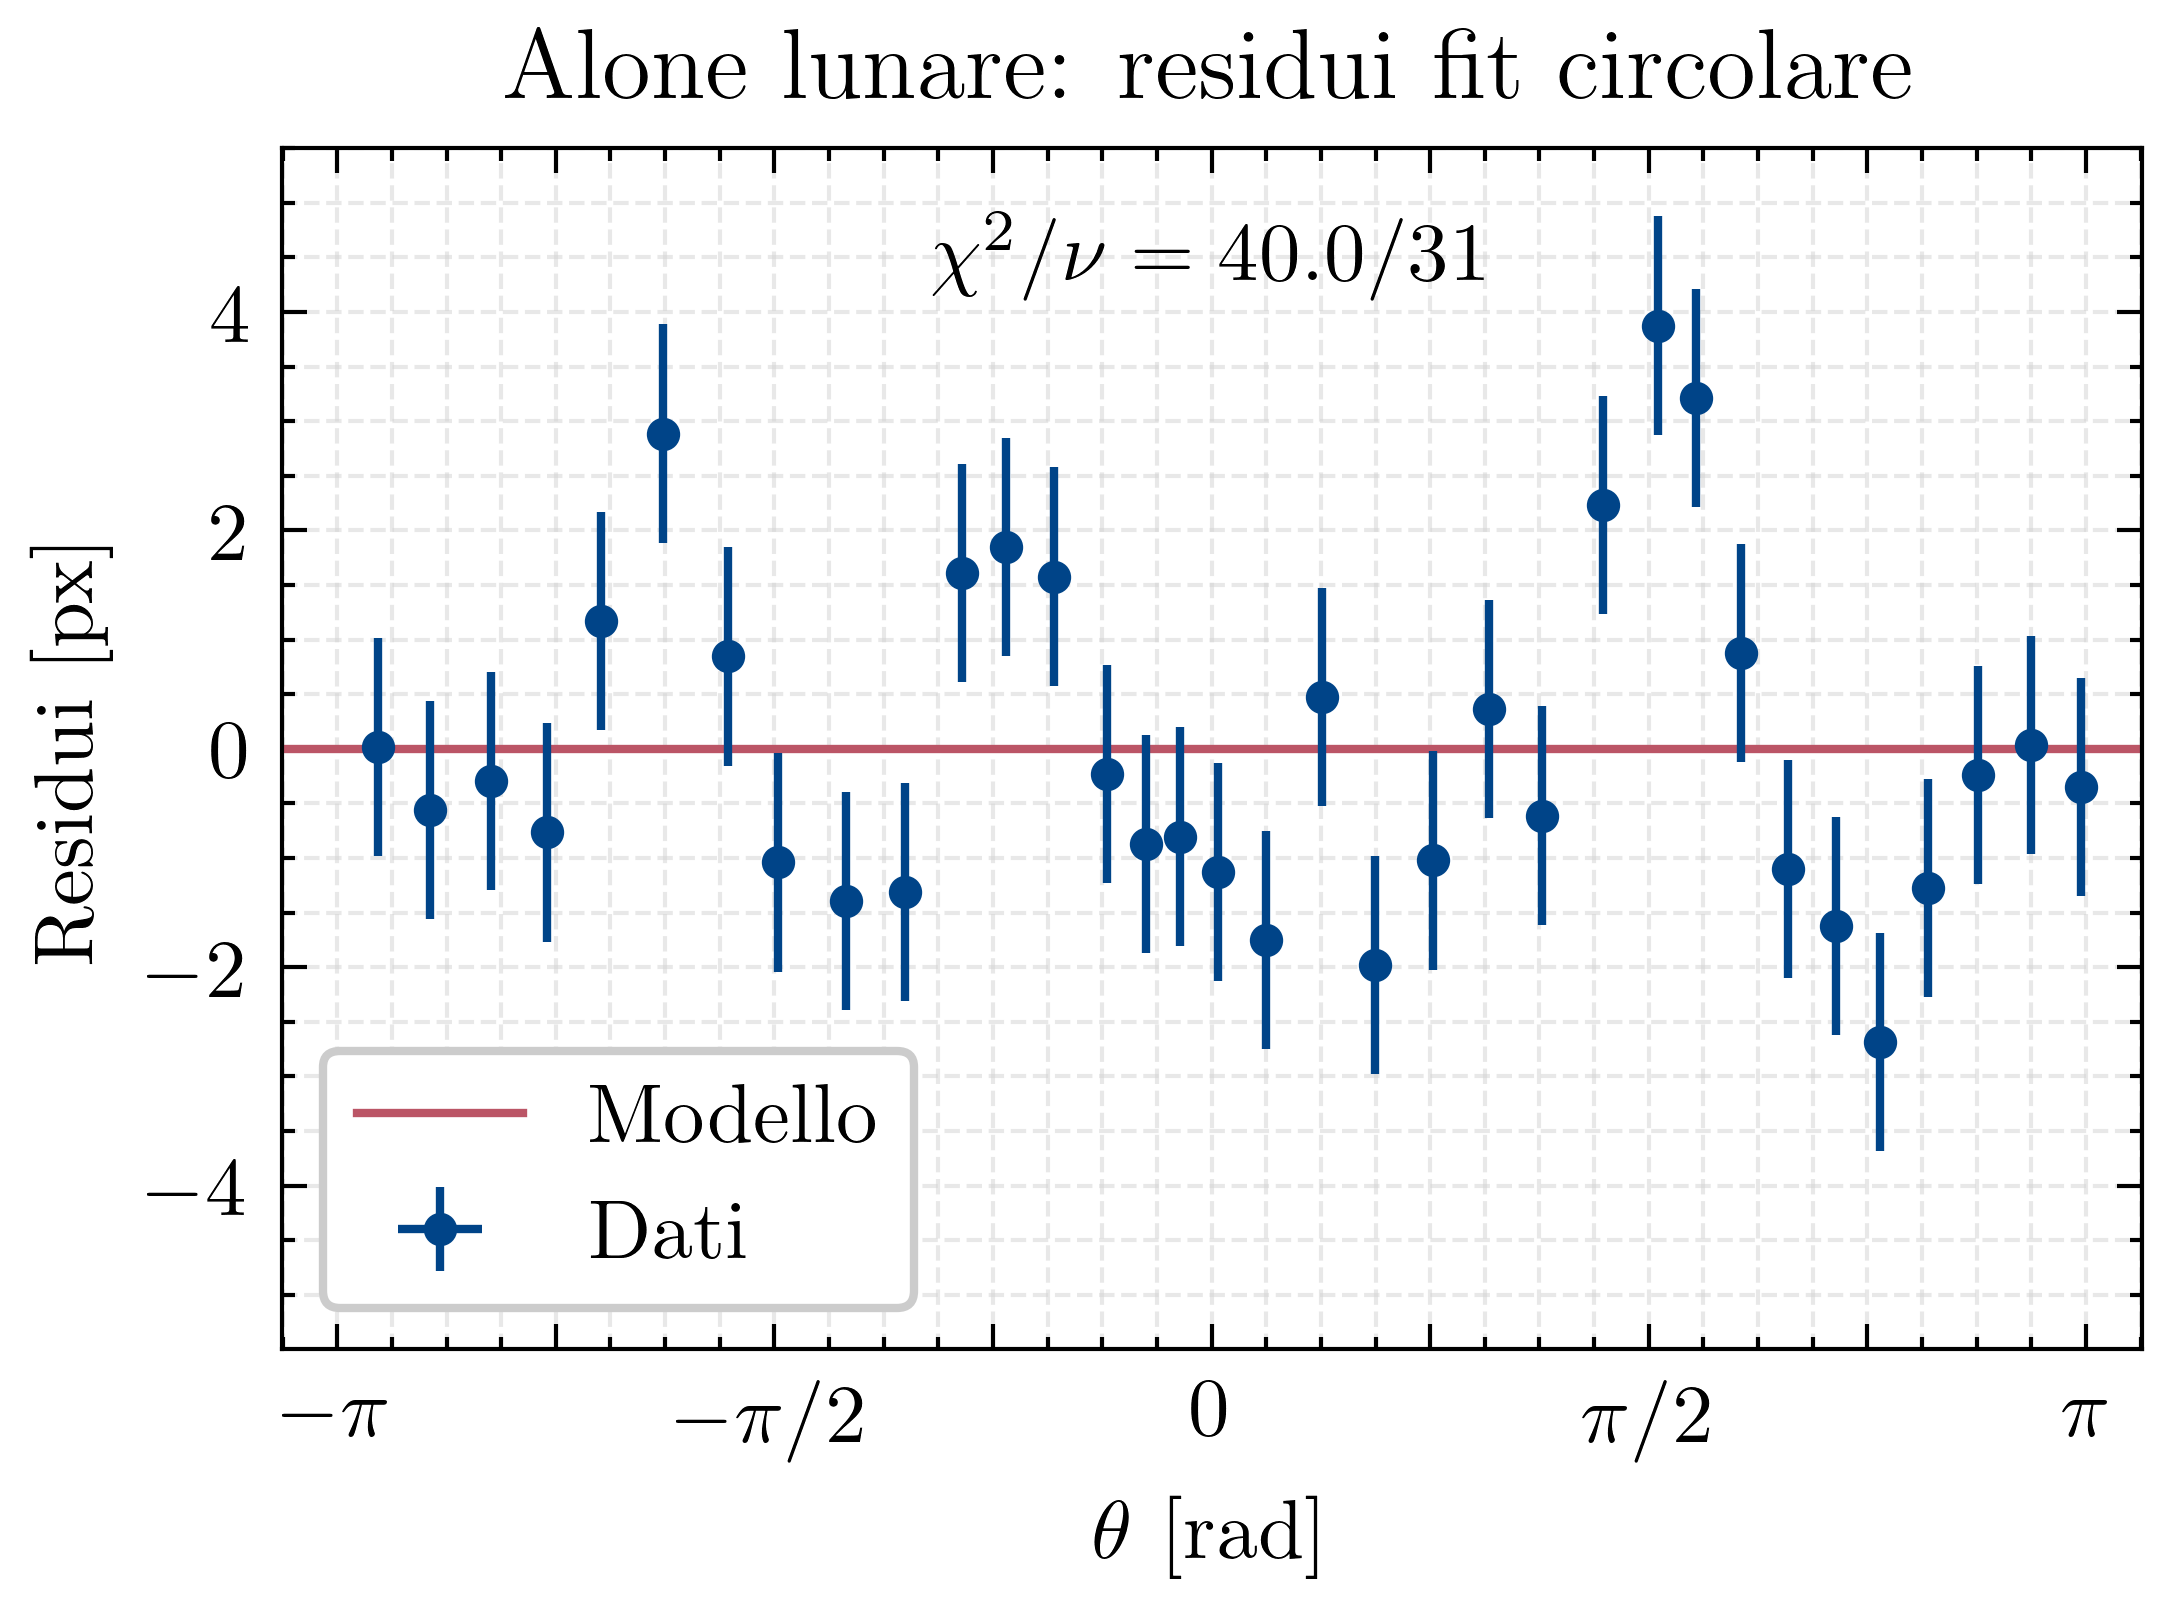
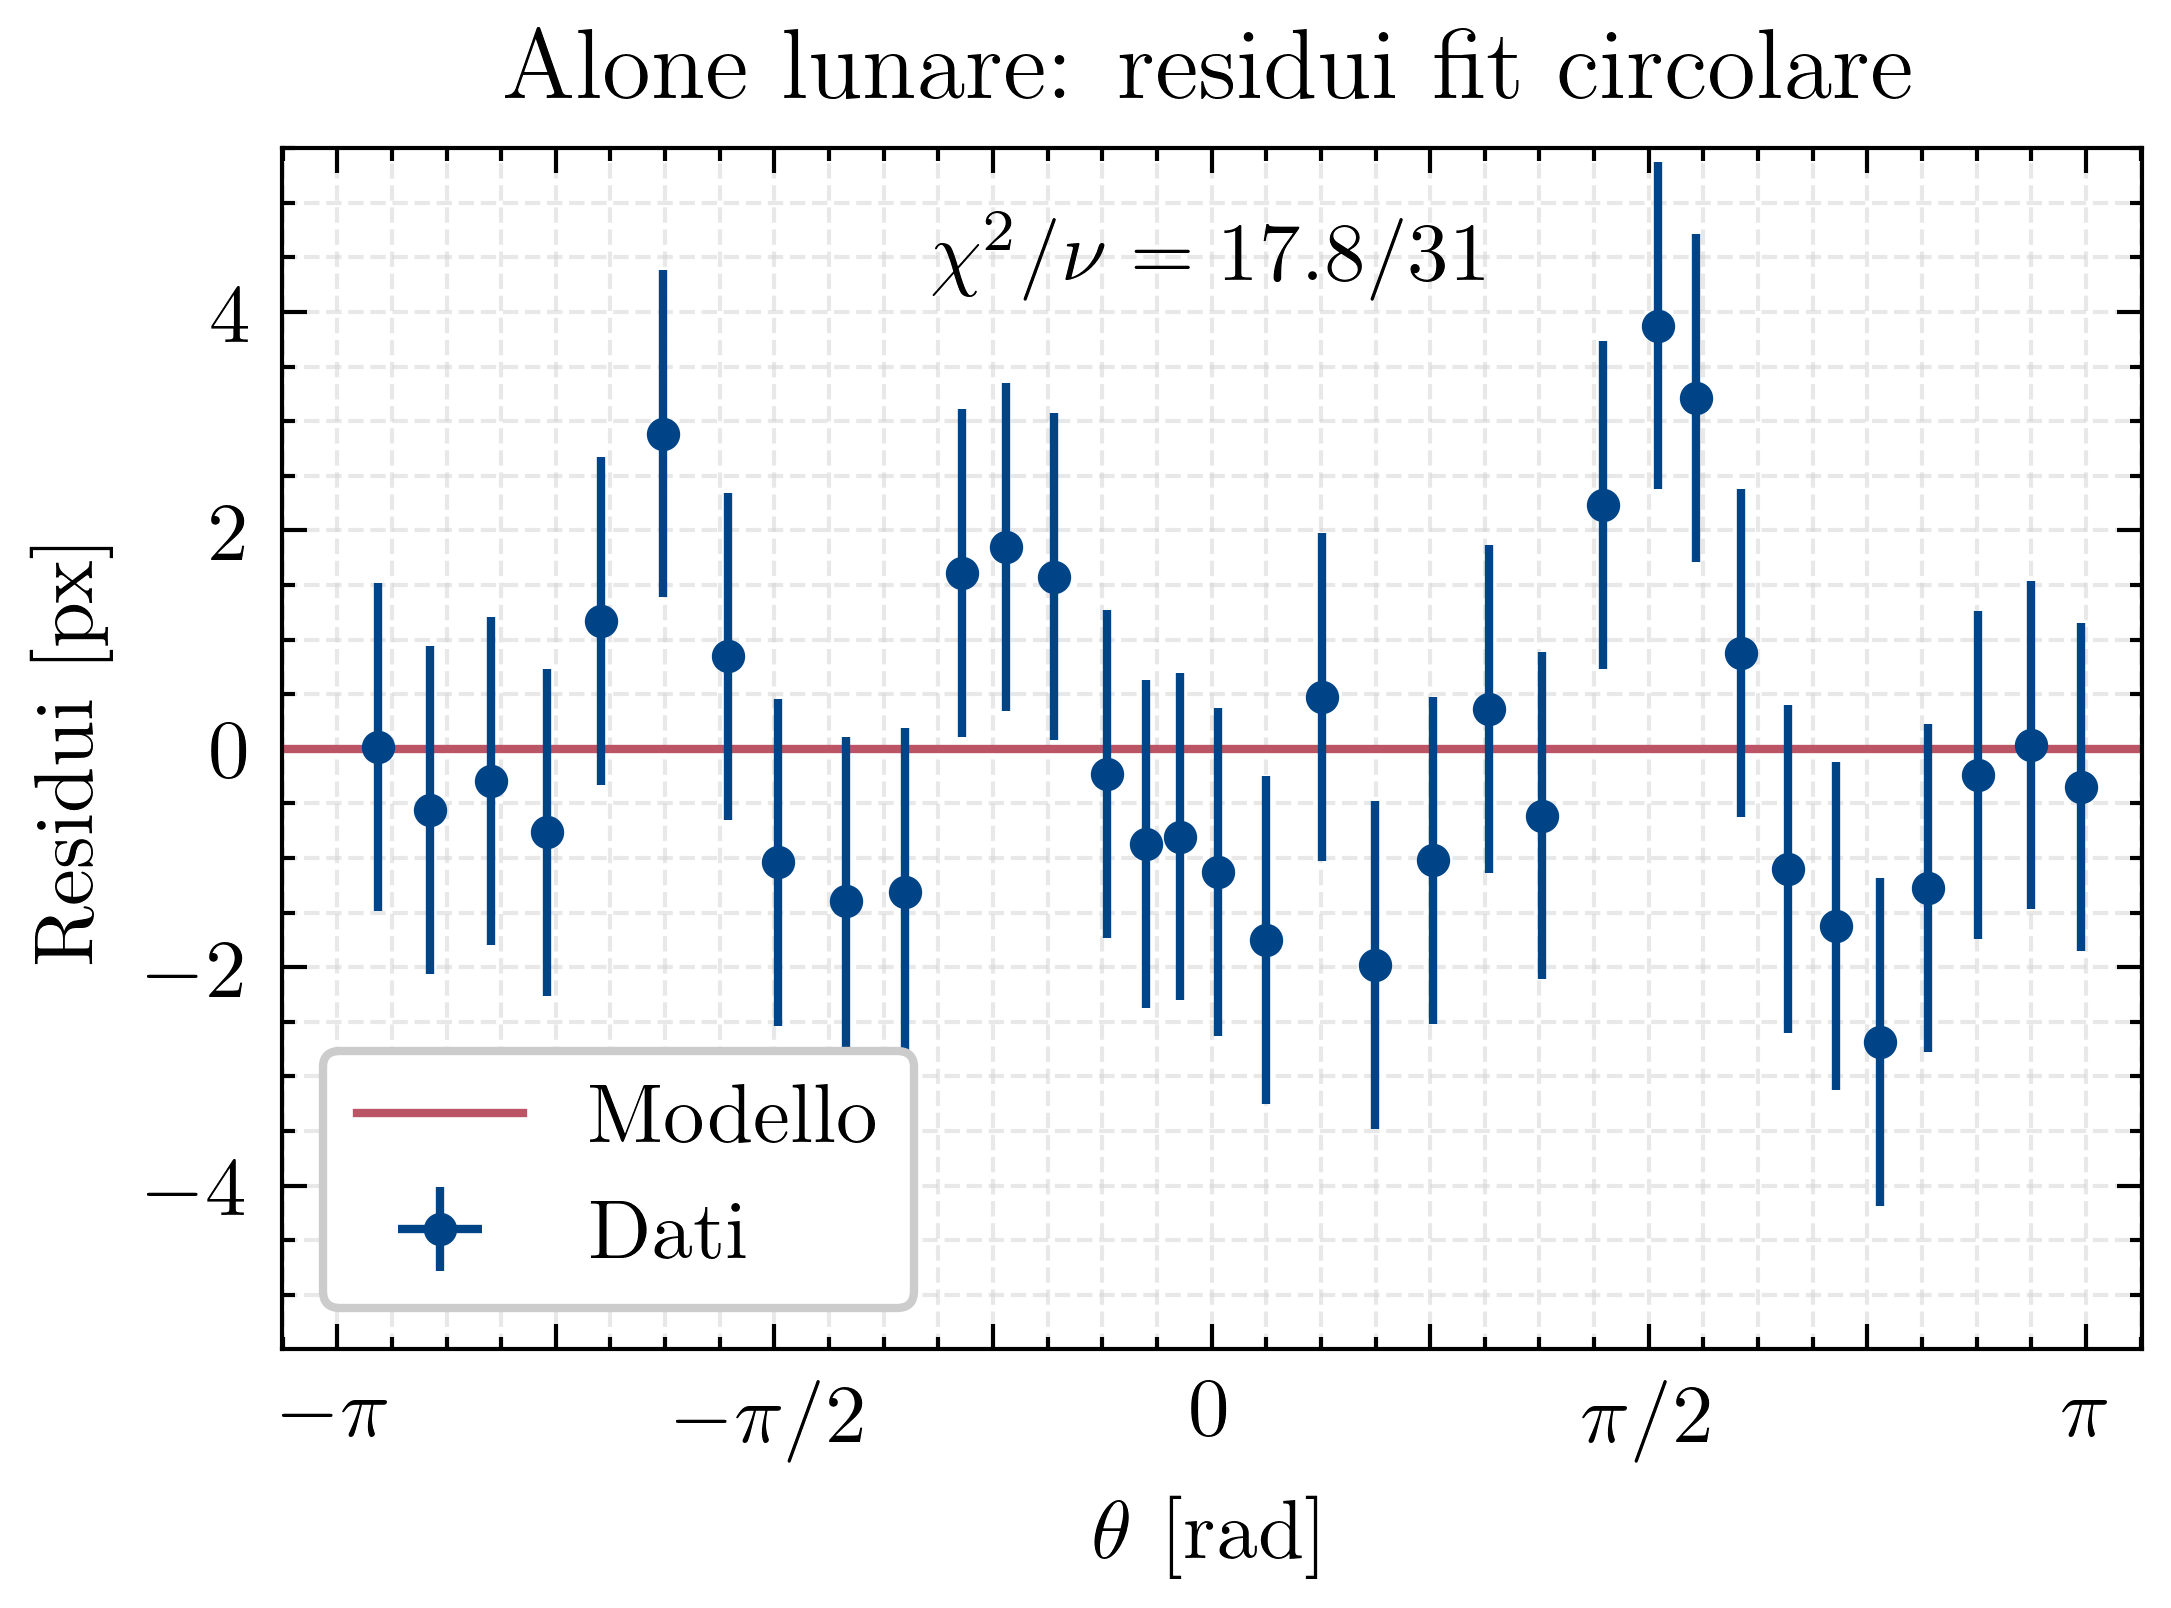
estimate px_to_rad using linear fit results

diff --git a/second_semester/alone_lunare/alone_lunare.py b/second_semester/alone_lunare/alone_lunare.py
@@ -3,7 +3,12 @@ import json
 import itertools
 from scipy.optimize import curve_fit, least_squares
 from utils import fmt_measure
-from draw_plot import draw_halo, draw_halo_residuals, draw_refractive_index
+from draw_plot import (
+    draw_fit,
+    draw_halo,
+    draw_halo_residuals,
+    draw_refractive_index,
+)
 
 
 def ang_dist(alpha_A, delta_A, alpha_B, delta_B):
@@ -25,7 +30,7 @@ def dist(vec_A, vec_B):
 
 
 # read lunar halo data (image coordinates)
-err = 1  # error on pixel measuremenet [px]
+err = 1.5  # error on pixel measurement [px]
 x, y = np.loadtxt("data/halo.csv", delimiter=", ", unpack=True)
 
 # read calibration data (star astronomical coordinates and image coordinates)
@@ -98,14 +103,14 @@ chi2_sigma_dist = (chi2 - dof) / np.sqrt(2 * dof)
 
 print(f"linear fit chi2:\n\t{chi2:.1f}/{dof} ({chi2_sigma_dist:.1f} sig)")
 
+# draw fit results
+text = f"$m = {fmt_measure(popt[0], perr[0])}$ px/rad\n$q = {fmt_measure(popt[1], perr[1])}$\n$\chi^2/\\nu = {chi2:.1f}/{dof}$"
+draw_fit(ang_dists, img_dists, 0, err, res, line, popt, text)
 
 # find conversion factor
-px_tot = img_dists.sum()
-rad_tot = ang_dists.sum()
-px_to_rad = rad_tot / px_tot
-# error
-px_tot_err = img_dist_err * np.sqrt(len(img_dists))
-px_to_rad_err = px_tot_err * px_to_rad / px_tot
+px_to_rad = 1 / popt[0]
+px_to_rad_err = perr[0] / (popt[0] ** 2)
+# standard error
 print(f"\npixel-to-radian factor:\n\t{fmt_measure(px_to_rad, px_to_rad_err)} rad/px")
 
 
@@ -169,10 +174,14 @@ res = res[indexes]
 draw_halo_residuals(theta, res, err, R, chi2, dof)
 
 
-def refractive_index(theta_min, apex_angle):
-    """Returns the refractive index knowing
+def refractive_index(theta_min, apex_angle, theta_min_err=0):
+    """Returns the refractive index (and its standard error) knowing
     minimum angle of deviation and apex angle"""
-    return np.sin((theta_min + apex_angle) / 2) / np.sin(apex_angle / 2)
+    n = np.sin((theta_min + apex_angle) / 2) / np.sin(apex_angle / 2)
+    n_err = theta_min_err * np.abs(
+        1 / 2 * np.cos((theta_min + apex_angle) / 2) / np.sin(apex_angle / 2)
+    )
+    return n, n_err
 
 
 def vertex_angle(n):
@@ -186,7 +195,7 @@ def to_radians(degrees):
 
 
 # apex angles of regular polygons (3 to 8 sides)
-x_poly = np.array(
+apex_angle_poly = np.array(
     [
         vertex_angle(3),  # triangle
         vertex_angle(4),  # square
@@ -196,21 +205,32 @@ x_poly = np.array(
         to_radians(180) - vertex_angle(8),  # octagon
     ]
 )
-y_poly = refractive_index(angular_radius, x_poly)
+n_poly, n_poly_err = refractive_index(
+    angular_radius, apex_angle_poly, angular_radius_err
+)
 
 # refractive_index() graph
-x_ref_ind = np.linspace(0.01, 2 * np.pi - 0.01, 100)
-y_ref_ind = refractive_index(angular_radius, x_ref_ind)
+apex_angle_graph = np.linspace(0.01, 2 * np.pi - 0.01, 100)
+n_graph, _ = refractive_index(angular_radius, apex_angle_graph)
 
 # special polygons labels
 poly_labels = ["$3/6$\nlati", "$4$\nlati", "$5$\nlati", "", "$7$\nlati", "$8$\nlati"]
 # draw refractive_index() graph
-draw_refractive_index(x_ref_ind, y_ref_ind, x_poly, y_poly, poly_labels)
+draw_refractive_index(apex_angle_graph, n_graph, apex_angle_poly, n_poly, poly_labels)
 
 # print results for regular polygons
-print("\nrefractive indexes for regular polygons (3 to 8 sides):")
+print("\nrefractive indexes for regular polygons from 3 to 8 sides:")
 print("\t(sides, vertex angle, apex angle, n)")
-for i, (alpha, n) in enumerate(zip(x_poly, y_poly)):
+for i, (alpha, n, n_err) in enumerate(zip(apex_angle_poly, n_poly, n_poly_err)):
     print(
-        f"\t{i+3}   {vertex_angle(i+3)/np.pi*180:.2f}°   {alpha/np.pi*180:.2f}°   {n:.3f}"
+        f"\t{i+3}   {vertex_angle(i+3)/np.pi*180:.2f}°   {alpha/np.pi*180:.2f}°   {fmt_measure(n,n_err)}"
     )
+
+# print hexagon refractive index calculation results
+n_exp = 1.31
+n = n_poly[3]
+n_err = n_poly_err[3]
+n_sigma_dist = (n - n_exp) / n_err
+print("\nrefractive index for hexagon:")
+print(f"\tn = {fmt_measure(n, n_err)}\n\tn_exp = {n_exp}")
+print(f"\tn_sigma_dist = {n_sigma_dist:.1f}")

diff --git a/second_semester/alone_lunare/draw_plot.py b/second_semester/alone_lunare/draw_plot.py
@@ -1,5 +1,6 @@
 import matplotlib.pyplot as plt
 import numpy as np
+from matplotlib import gridspec
 
 # plot style configuration
 color_data = "#004488"
@@ -10,6 +11,53 @@ alpha_star_lines = 0.5
 scatter_size = 5
 text_offset = (8, -8)
 text_bbox = {"facecolor": "white", "edgecolor": "none", "pad": 1}
+
+
+def draw_fit(
+    x, y, x_err, y_err, res, model, popt, text, filename="graphs/star_linear_fit.png"
+):
+
+    # setup plot
+    plt.style.use(["science", "grid"])
+    fig = plt.figure(figsize=(4, 3), dpi=600)
+    gs = gridspec.GridSpec(2, 1, height_ratios=(3, 2))
+
+    # data axis
+    ax_data = fig.add_subplot(gs[0])
+    ax_data.errorbar(
+        x, y, xerr=x_err, yerr=y_err, fmt=".", color=color_data, label="Dati", zorder=2
+    )
+    xx = np.linspace(x.min() - 0.1, x.max() + 0.1, 2)
+    ax_data.plot(xx, model(xx, *popt), color=color_fit, label="Modello", zorder=1)
+
+    # text box with best-fit parameters and chi2 test result
+    ax_data.text(0.84, 400, text, va="top")
+
+    # residuals axis
+    ax_res = fig.add_subplot(gs[1], sharex=ax_data)
+    ax_res.errorbar(x, res, xerr=x_err, yerr=y_err, fmt=".", color=color_data, zorder=2)
+    ax_res.axhline(0, color=color_fit, zorder=1)
+
+    # limits
+    ax_data.set_xlim((0.54, 1.08))
+    ax_res.set_ylim((-7, 7))
+
+    # labels, legend
+    ax_data.set_title("Distanza in pixel VS distanza angolare")
+    ax_data.set_ylabel("$r$ [px]")
+    ax_res.set_ylabel("Residui [px]")
+    ax_res.set_xlabel("$\\varphi$ [rad]")
+    ax_data.legend()
+
+    # grid
+    ax_data.grid(which="both", axis="both", color="lightgray", zorder=0)
+    ax_res.grid(which="both", axis="both", color="lightgray", zorder=0)
+
+    # remove vertical space between residuals and plot
+    fig.tight_layout()
+    plt.subplots_adjust(hspace=0)
+
+    plt.savefig(filename)
 
 
 def draw_halo(
@@ -163,11 +211,8 @@ def draw_refractive_index(
     ax = fig.add_subplot(111)
     ax.plot(x, y, color=color_fit, label="$n(\\alpha)$", zorder=2)
 
-    # horizontal line at n=1
-    # ax.axhline(1, color="#000000", linestyle="--", zorder=1)
-
     # horizontal line connecting to triangle/hexagon
-    ax.axhline(1.3, color=color_data, ls="--", label="$n = 1.3$", zorder=4)
+    ax.axhline(1.31, color=color_data, ls="--", label="$n = 1.31$", zorder=4)
 
     # vertical lines (regular polygons)
     for i, (xx, yy, label) in enumerate(zip(x_poly, y_poly, labels_poly)):
